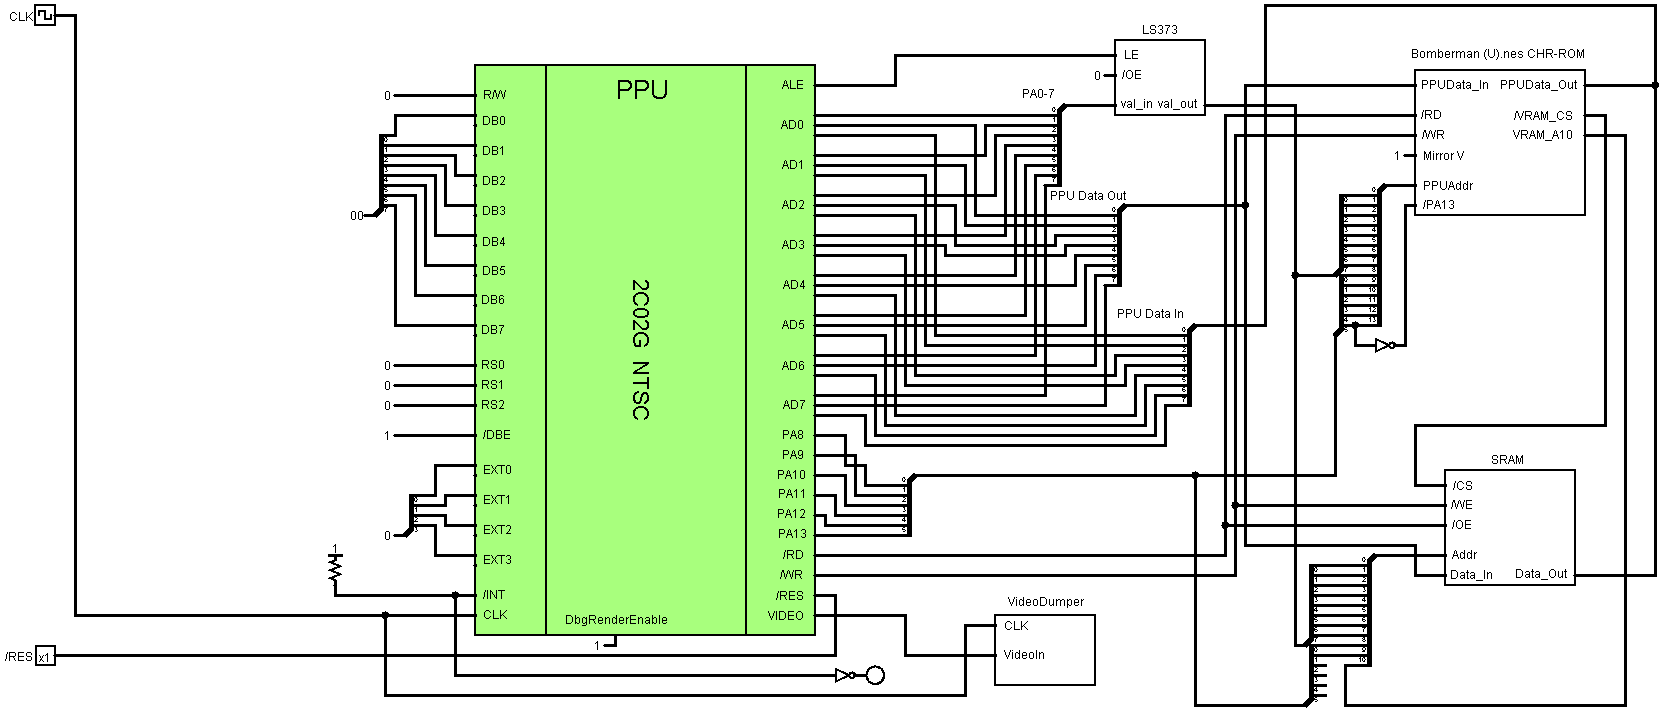
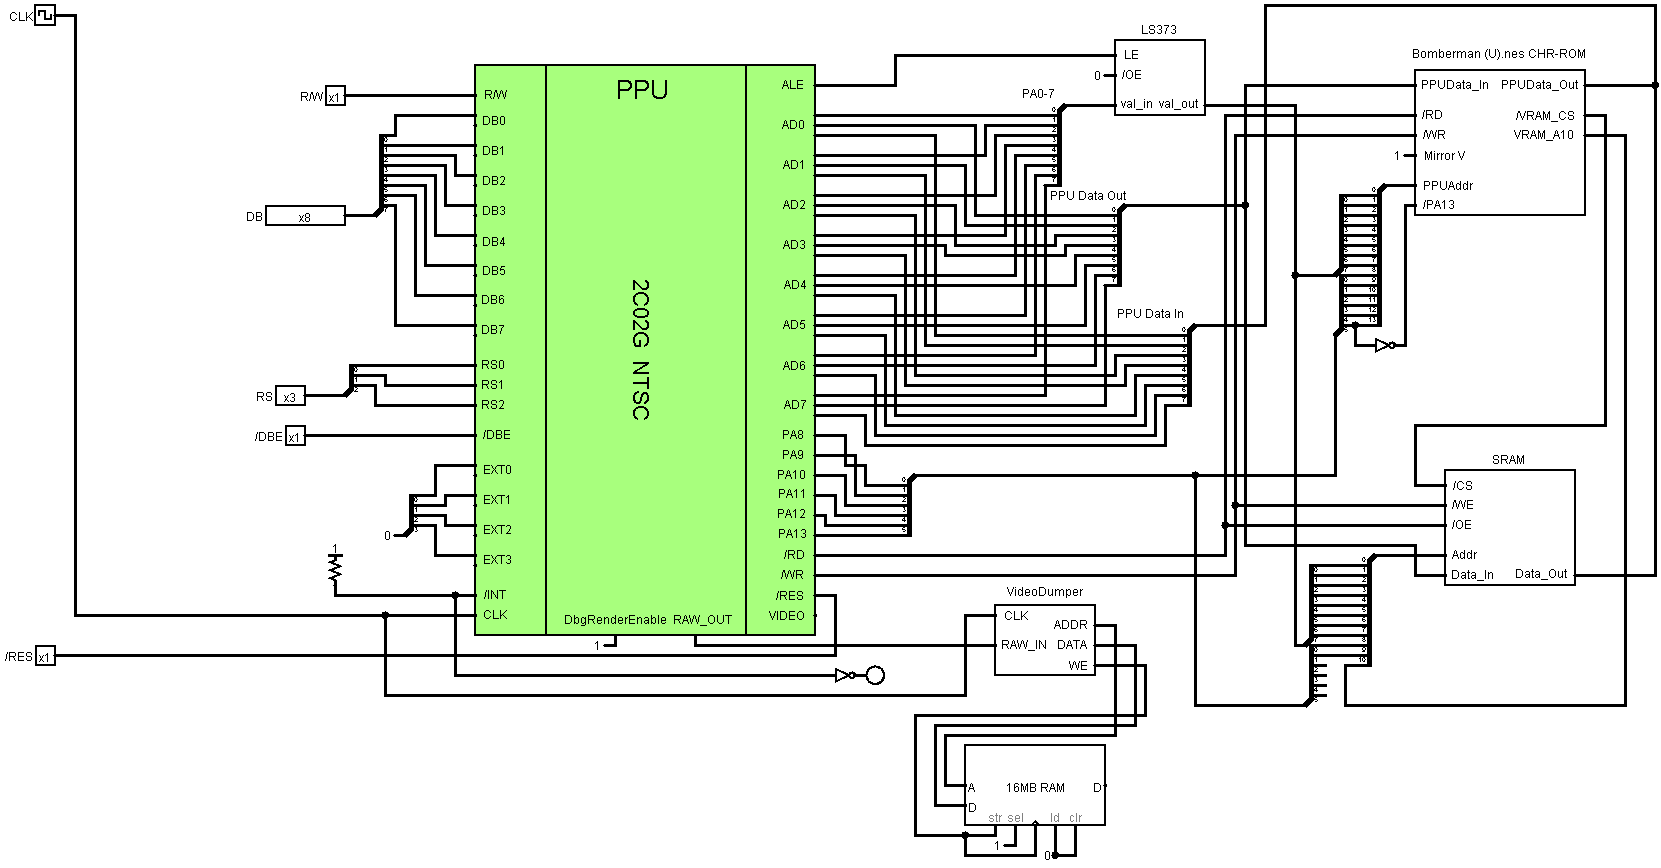
PPU Player readme

diff --git a/Docs/Common/Readme.md b/Docs/Common/Readme.md
@@ -11,3 +11,51 @@ Typical NMOS circuits. (Logisim Evolution)
 Standalone PPU test circuit. (Logisim 2.7.1)
 
 ![PPUPlayer_All.png](PPUPlayer_All.png)
+
+### Как подготовить PPU Player
+
+Сделать следующие дампы:
+- Дамп CHR (например mario_chr.bin)
+- Дамп VRAM (например mario_vram.bin)
+- Дамп CRAM (например mario_cram.bin)
+- Дамп OAM (например mario_oam.bin)
+
+Сделать дампы можно в любом эмуляторе или через PPU Player в меню PPU Dumps.
+
+Конвертировать дампы в формат Logisim:
+
+```
+c:\Work\breaks\Docs\6502\6502_logisim>py -3 bin2hex.py mario_chr.bin mario_chr.hex
+
+c:\Work\breaks\Docs\6502\6502_logisim>py -3 bin2hex.py mario_vram.bin mario_vram.hex
+
+c:\Work\breaks\Docs\6502\6502_logisim>py -3 bin2hex.py mario_cram.bin mario_cram.hex
+
+c:\Work\breaks\Docs\6502\6502_logisim>py -3 bin2hex.py mario_oam.bin mario_oam.hex
+```
+
+Загрузить HEX дампы в соответствующие блоки памяти:
+
+![ppu_dumps.png](ppu_dumps.png)
+
+Сделать /DBE = 1 (отключить CPU I/F).
+
+Сделать /RES = 0, выполнить несколько циклов (сбросить PPU).
+
+Теперь PPU готов к прожарке.
+
+### Как дампить RAW Samples
+
+Запускаем PPU на симуляцию и ждём пока память RAW Dump не заполнится примерно до адреса 60000 (это примерно 1 кадр).
+
+Сохраняем дамп памяти RAW Samples (как например `mario_raw_dump.hex`).
+
+Открываем сохраненный .hex в PPUPlayer, в меню Misc -> Load RAW Dump...
+
+Выводится такое:
+
+![RAW_Viewer.png](RAW_Viewer.png)
+
+Чешем репу, исправляем схемы.
+
+PS. Можно дампить больше одного кадра, выбирать их можно с помощью Combo Box. Если сдампится меньше кадра - то покажется "огрызок".
